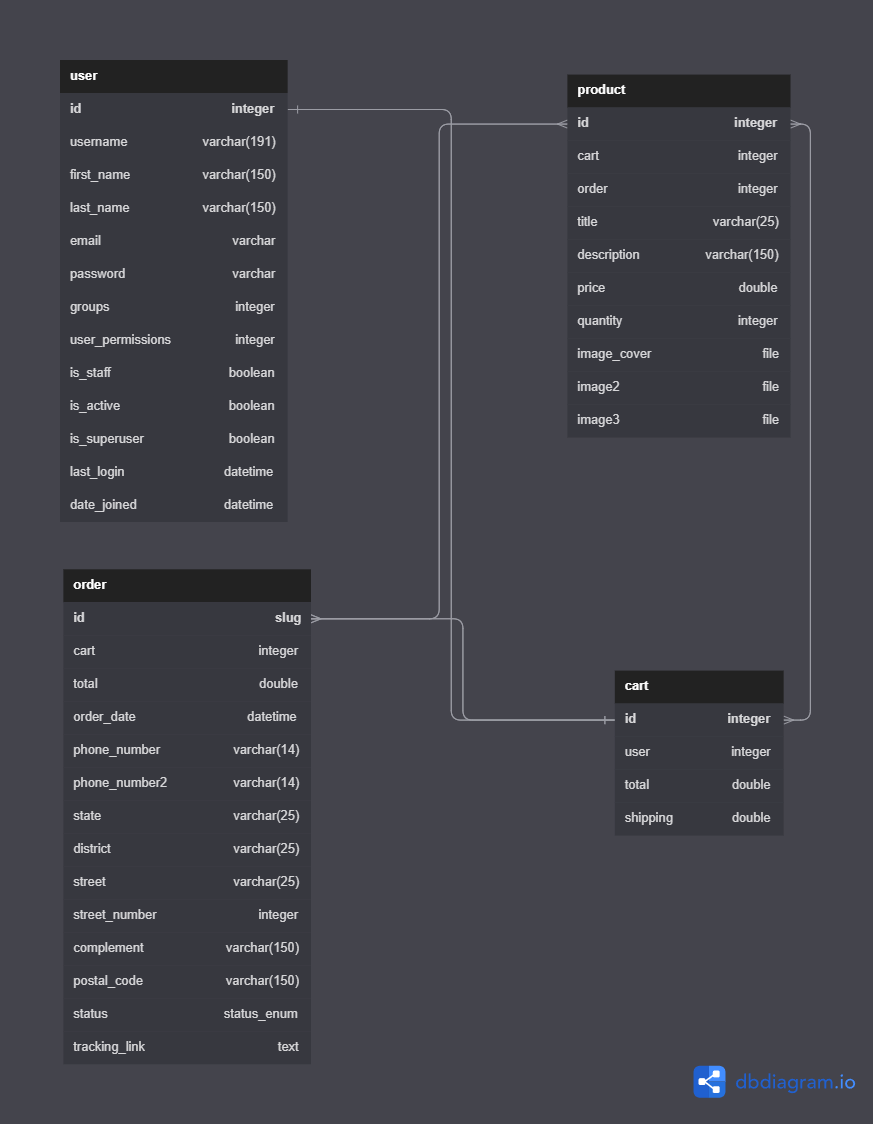
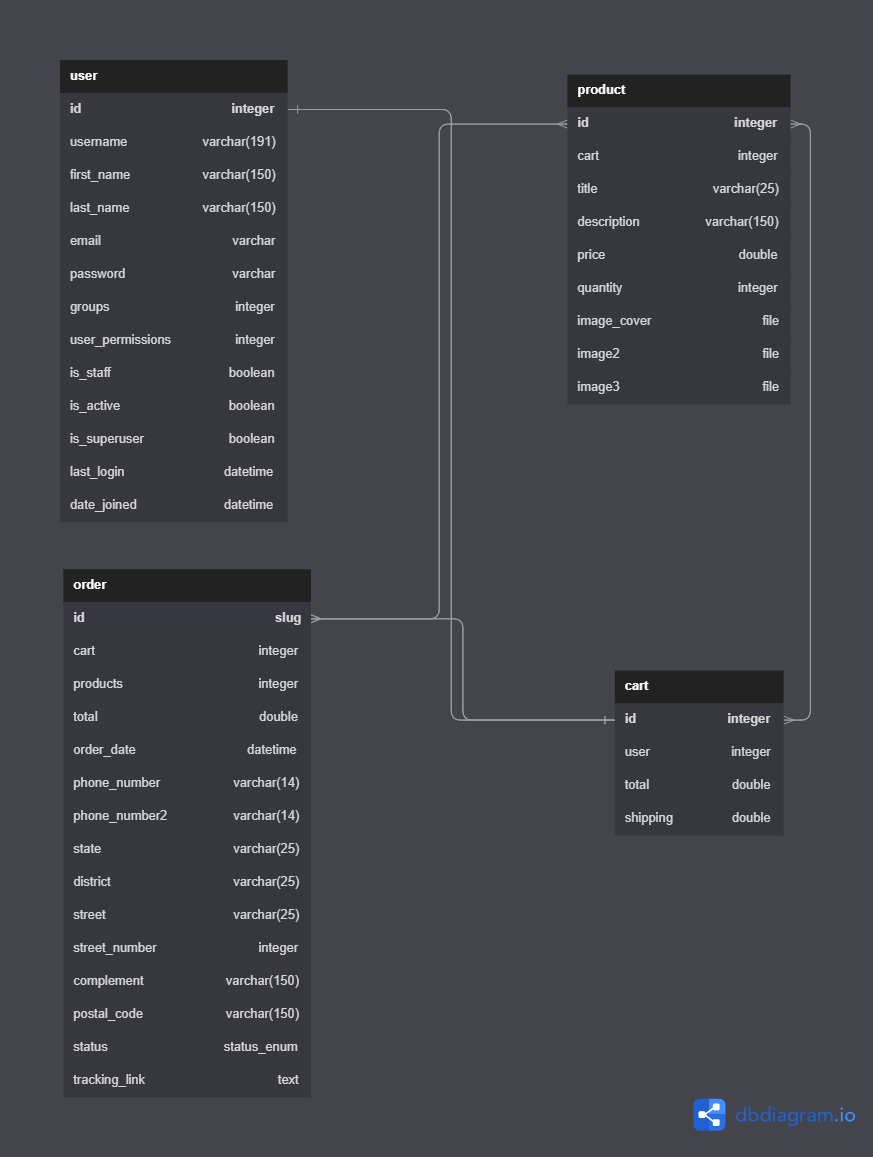
Fix

diff --git a/classewatches/app/templates/app/cart/index.html b/classewatches/app/templates/app/cart/index.html
@@ -18,7 +18,7 @@
                 <div class="d-flex flex-row justify-content-between align-items-center p-2 bg-white mt-4 px-3 rounded">
                     <div class="mr-1"><img class="rounded" src="{{ product.image_cover.url }}" width="70"></div>
                     <div>
-                        <h5 class="text-grey">{{ product.price }}</h5>
+                        <h5 class="text-grey">R$ {{ product.price }}</h5>
                     </div>
                     <form method="post" action="{% url 'app:remove_from_cart' product.id %}"
                         class="d-flex align-items-center">
@@ -42,10 +42,10 @@
         <p class="lead text-center fs-6 my-5">Quer encomendar algo? Me contate!</p>
     </div>
     {% endfor %}
-    {% if not Cart.product_set.count <= 0 %} <div
-        class="bg-white d-flex justify-content-end flex-row align-items-center mt-3 p-2"><button
-            class="btn btn-block btn-lg ml-2 bg-dark text-light" type="button">Pagamento</button>
-        </div>
+    {% if not Cart.product_set.count <= 0 %}
+    <div class="bg-white d-flex justify-content-end flex-row align-items-center mt-3 p-2">
+        <button class="btn btn-block btn-lg ml-2 bg-dark text-light" type="button">Pagamento</button>
+    </div>
     {% endif %}
 </main>
 {% endblock content %}

diff --git a/classewatches/app/templates/header.html b/classewatches/app/templates/header.html
@@ -11,19 +11,9 @@
         </button>
         <div class="collapse navbar-collapse" id="navbarNav">
             <ul class="navbar-nav">
-                {% if request.user.is_authenticated and not request.user.is_superuser %}
                 <li class="nav-item">
-                    <a class="nav-link active" href="{% url 'app:admin' %}">Perfil</a>
+                    <a class="nav-link active" href="{% url 'app:user' %}">Perfil</a>
                 </li>
-                {% elif request.user.is_superuser and request.user.is_authenticated %}
-                <li class="nav-item">
-                    <a class="nav-link active" href="{% url 'app:admin' %}">Perfil</a>
-                </li>
-                {% else %}
-                <li class="nav-item">
-                    <a class="nav-link active" href="{% url 'app:admin' %}">Perfil</a>
-                </li>
-                {% endif %}
                 <li class="nav-item">
                     <a class="nav-link" aria-current="page" href="">Sobre</a>
                 </li>

diff --git a/classewatches/app/templates/app/user/index.html b/classewatches/app/templates/app/user/index.html
@@ -26,7 +26,8 @@
         <li class="list-group-item text-truncate">Data do pedido: <strong>{{ order.order_date }}</strong></li>
         
         {# Products #}
-        {% for product in order.product_set.all %}
+        <li class="list-group-item text-center fw-bold">Produtos comprados</li>
+        {% for product in order.products.all %}
         <div class="border d-flex flex-row justify-content-between align-items-center p-2 bg-white px-3 rounded">
             <div class="mr-1"><img class="rounded" src="{{ product.image_cover.url }}" width="70"></div>
             <p>{{ product.title }}</p>

diff --git a/classewatches/app/migrations/0001_initial.py b/classewatches/app/migrations/0001_initial.py
@@ -1,0 +1,61 @@
+# Generated by Django 4.2.1 on 2023-05-26 19:16
+
+from django.conf import settings
+from django.db import migrations, models
+import django.db.models.deletion
+import django.utils.timezone
+
+
+class Migration(migrations.Migration):
+
+    initial = True
+
+    dependencies = [
+        migrations.swappable_dependency(settings.AUTH_USER_MODEL),
+    ]
+
+    operations = [
+        migrations.CreateModel(
+            name='Cart',
+            fields=[
+                ('id', models.AutoField(primary_key=True, serialize=False)),
+                ('total', models.FloatField(default=0.0, verbose_name='Total')),
+                ('shipping', models.FloatField(default=0.0, verbose_name='Frete')),
+                ('user', models.OneToOneField(on_delete=django.db.models.deletion.CASCADE, to=settings.AUTH_USER_MODEL, verbose_name='Usuário')),
+            ],
+        ),
+        migrations.CreateModel(
+            name='Product',
+            fields=[
+                ('id', models.AutoField(primary_key=True, serialize=False)),
+                ('title', models.CharField(max_length=25, verbose_name='Título')),
+                ('description', models.CharField(max_length=150, verbose_name='Descrição')),
+                ('price', models.FloatField(default=0.0, verbose_name='Preço')),
+                ('quantity', models.IntegerField(default=1, verbose_name='Quantidade')),
+                ('image_cover', models.FileField(help_text='Por favor, tire a foto na vertical.', upload_to='static/', verbose_name='Imagem de capa')),
+                ('image2', models.FileField(help_text='Por favor, tire a foto na vertical.', upload_to='static/', verbose_name='Imagem 2')),
+                ('image3', models.FileField(help_text='Por favor, tire a foto na vertical.', upload_to='static', verbose_name='Imagem 3')),
+                ('cart', models.ManyToManyField(editable=False, to='app.cart', verbose_name='Carrinho')),
+            ],
+        ),
+        migrations.CreateModel(
+            name='Order',
+            fields=[
+                ('id', models.SlugField(max_length=900, primary_key=True, serialize=False)),
+                ('total', models.FloatField(default=0.0, verbose_name='Total')),
+                ('order_date', models.DateField(default=django.utils.timezone.now, verbose_name='Data do pedido')),
+                ('phone_number', models.CharField(max_length=14, verbose_name='Telefone')),
+                ('phone_number2', models.CharField(max_length=14, verbose_name='Telefone 2')),
+                ('state', models.CharField(max_length=25, verbose_name='Estado')),
+                ('district', models.CharField(max_length=25, verbose_name='Bairro')),
+                ('street', models.CharField(max_length=25, verbose_name='Rua')),
+                ('street_number', models.IntegerField(verbose_name='Número da rua')),
+                ('complement', models.CharField(max_length=150, null=True, verbose_name='Complemento')),
+                ('cep', models.CharField(max_length=150, verbose_name='CEP')),
+                ('status', models.CharField(choices=[('pendente', 'pendente'), ('aceito', 'aceito'), ('despachado', 'despachado')], default='pendente', max_length=25, verbose_name='Status')),
+                ('tracking_link', models.URLField(null=True, verbose_name='Link de rastreamento')),
+                ('cart', models.ForeignKey(on_delete=django.db.models.deletion.CASCADE, to='app.cart', verbose_name='Carrinho')),
+                ('products', models.ManyToManyField(to='app.product', verbose_name='Produtos')),
+            ],
+        ),
+    ]

diff --git a/classewatches/app/views.py b/classewatches/app/views.py
@@ -143,18 +143,12 @@ class DeleteUserView(SuperUserRequiredMixin, generic.DeleteView):
     success_url = reverse_lazy('app:success')
 
 # Orders
-class OrderForm(forms.ModelForm):
-    class Meta:
-        model = Order
-        fields = ['id', 'cart', 'total', 'order_date', 'phone_number', 'phone_number2', 'state', 'district', 'street', 'street_number', 'complement', 'cep', 'status', 'tracking_link']
-
 class OrderCreateView(SuperUserRequiredMixin, generic.CreateView):
     login_url = reverse_lazy('app:login')
     model = Order
     success_url = reverse_lazy('app:success')
     template_name = 'app/admin/order/create.html'
-    form_class = OrderForm
-    #fields = ['id', 'cart', 'products', 'total', 'order_date', 'phone_number', 'phone_number2', 'state', 'district', 'street', 'street_number', 'complement', 'cep', 'status', 'tracking_link']
+    fields = ['id', 'cart', 'products', 'total', 'order_date', 'phone_number', 'phone_number2', 'state', 'district', 'street', 'street_number', 'complement', 'cep', 'status', 'tracking_link']
 
 class OrderUpdateView(SuperUserRequiredMixin, generic.UpdateView):
     login_url = reverse_lazy('app:login')
